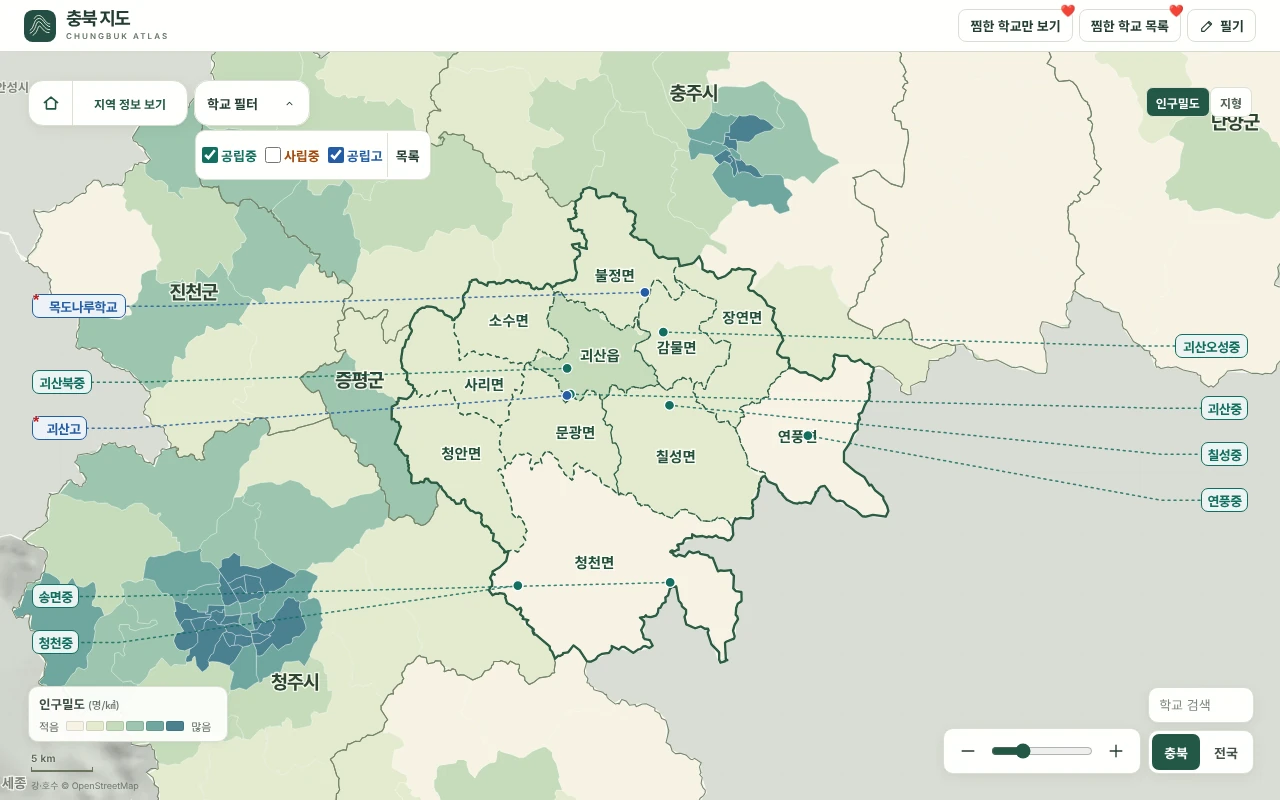
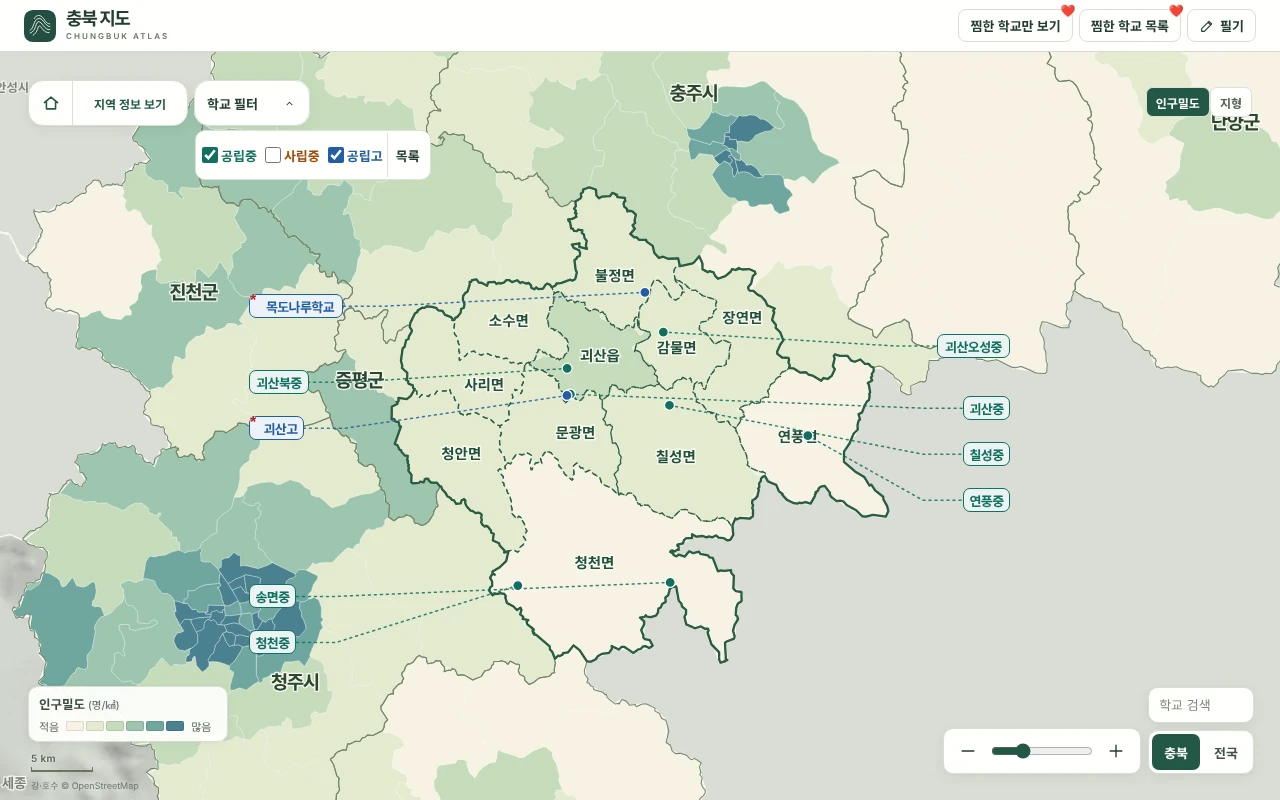
두 영상에서 학교 카드를 지역 바로 옆에 둔 앱 모습으로 교체
- 소개 영상 ②·③ 장면 사진을 카드 위치만 고친 앱으로 다시 촬영
  ('고치기 전'도 예전 버전에 카드 수정만 얹어 찍어, 비교는 원래 보여 주려던 차이만 남김)
- 트레일러의 지역 선택·단양 화면도 다시 촬영
- 카드가 잘리지 않도록 두 영상의 해당 장면 확대 범위를 조금 넓힘

Claude-Session: https://claude.ai/code/session_016d3JJpCtXJr2CBARXvz5tn

diff --git a/video/src/ChungbukIntro.jsx b/video/src/ChungbukIntro.jsx
@@ -750,7 +750,7 @@ const Select = () => {
   const cam = camAt(f, [
     {t: 0, cx: 640, cy: 400, w: 1280},
     {t: 2.5, cx: 640, cy: 400, w: 1280},
-    {t: 5.5, cx: 615, cy: 410, w: 680},
+    {t: 5.5, cx: 620, cy: 405, w: 900},
   ]);
   const lifted = lift >= 0.5;
   return (
@@ -802,7 +802,7 @@ const Danyang = () => {
   const cam = camAt(f, [
     {t: 0, cx: 640, cy: 400, w: 1280},
     {t: 2, cx: 640, cy: 400, w: 1280},
-    {t: 5, cx: 640, cy: 425, w: 640},
+    {t: 5, cx: 610, cy: 425, w: 840},
   ]);
   const pick = interpolate(f, [s(8), s(8.6), s(15), s(15.5)], [0, 1, 1, 0], {
     extrapolateLeft: 'clamp',

diff --git a/video/src/Trailer.jsx b/video/src/Trailer.jsx
@@ -313,7 +313,7 @@ const CLIPS = [
     device: 'laptop',
     cam: [
       {t: 0, cx: 640, cy: 420, w: 1280},
-      {t: 4.3, cx: 500, cy: 560, w: 760},
+      {t: 4.3, cx: 620, cy: 520, w: 900},
     ],
   },
   {
